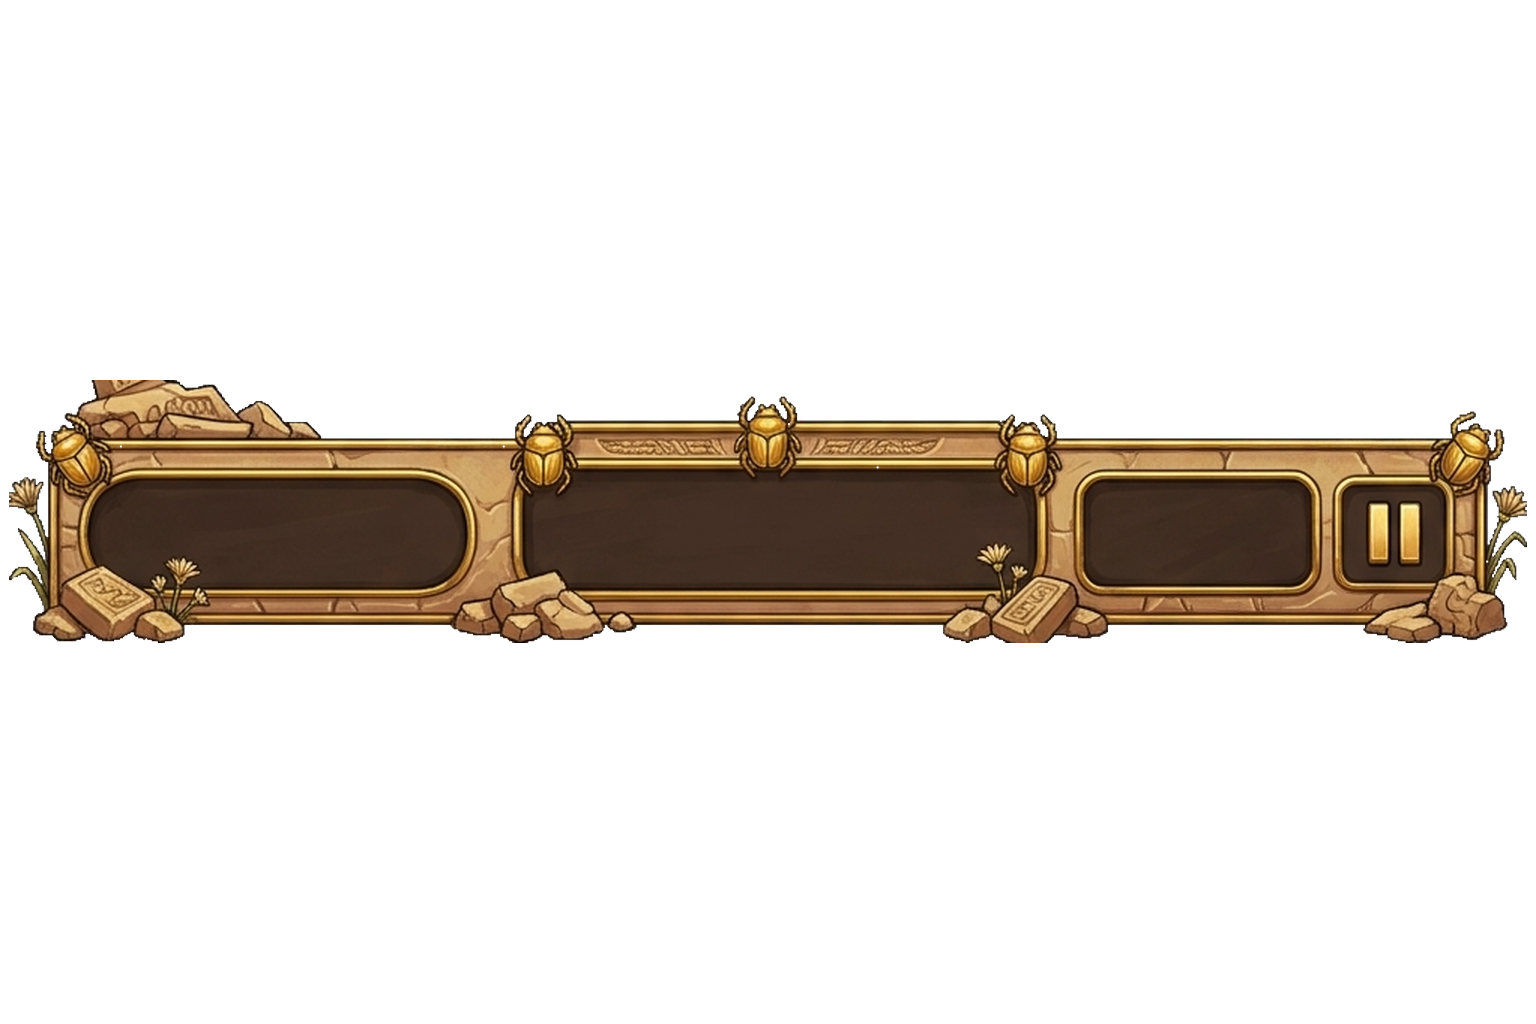
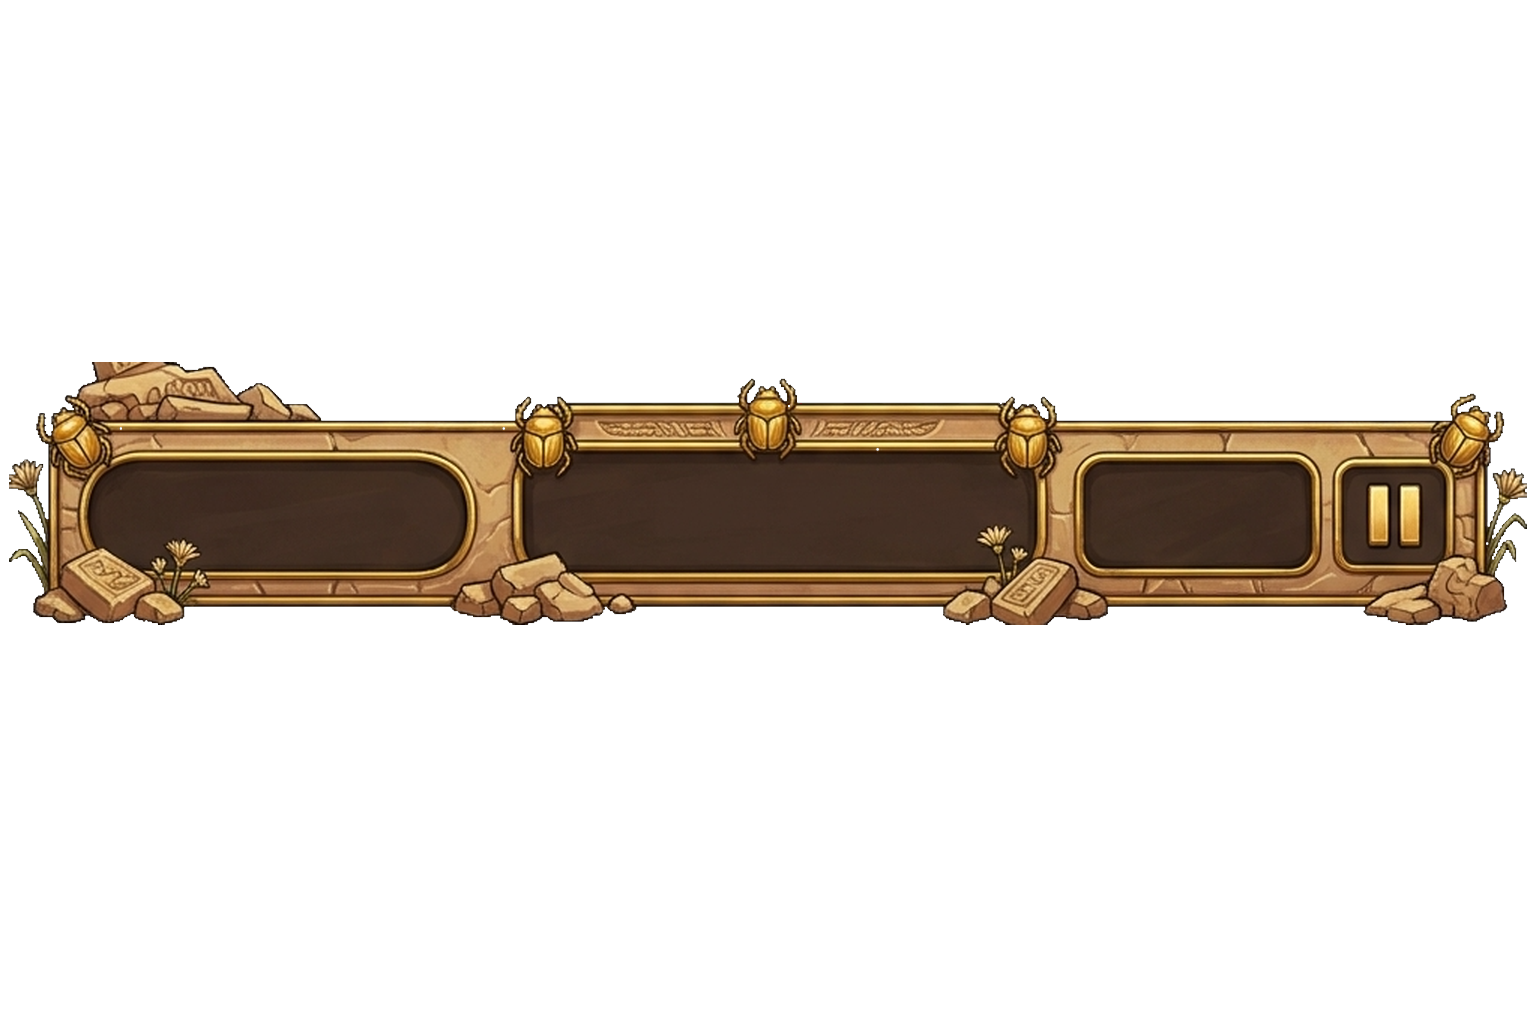
RENDER THEO TRỤC Y

Changed region(s): [[0.0, 0.3438, 1.0, 0.625]]

diff --git a/src/core/CGAME.cpp b/src/core/CGAME.cpp
@@ -2,6 +2,7 @@
 #include "LevelConfig.h"
 #include "HighScore.h"
 #include <cstdio>
+#include <algorithm>
 #include <cmath>
 
 const float SPAWN_X = Win_W / 2.f - Player_W / 2.f;
@@ -888,13 +889,25 @@ void CGAME::render() {
 
     mWindow.draw(mBgSprite);
 
-    for (auto* obs : mObstacles) {
-        obs->Draw(mWindow);
-    }
+    //Sort theo y
+    std::sort(mAnimals.begin(), mAnimals.end(),
+    [](CANIMAL* a, CANIMAL* b) {
+        return a->getPosition().y < b->getPosition().y;
+    });
 
     for (auto* ani : mAnimals) {
         ani->Draw(mWindow);
     }
+
+    std::sort(mObstacles.begin(), mObstacles.end(),
+    [](CVEHICLE* a, CVEHICLE* b) {
+        return a->getPosition().y < b->getPosition().y;
+    });
+
+    for (auto* obs : mObstacles) {
+        obs->Draw(mWindow);
+    }
+
 
     if (mTraffic) {
         mTraffic->Draw(mWindow);

diff --git a/src/levels/LevelConfig.cpp b/src/levels/LevelConfig.cpp
@@ -21,8 +21,8 @@ LevelConfig getLevel1()
             {ObstacleType::MAMMOTH, 80.f, 1.f, 80.f, "assets/sprites/lv1_sp/mammoth/MAMUT.png", 2, 620.f},
         },
         {
-            {AnimalType::BIRD, 150.f, 1.f, 50.f, "assets/sprites/lv1_sp/bird/bay.png", 2, 520.f},
-            {AnimalType::BIRD, 200.f, -1.f, 50.f, "assets/sprites/lv1_sp/bird/baytrai.png", 2, 520.f},
+            {AnimalType::BIRD, 280.f, 1.f, 50.f, "assets/sprites/lv1_sp/bird/bay.png", 2, 520.f},
+            {AnimalType::BIRD, 250.f, -1.f, 50.f, "assets/sprites/lv1_sp/bird/baytrai.png", 2, 520.f},
         }};
 }
 

diff --git a/src/animals/CANIMAL.h b/src/animals/CANIMAL.h
@@ -17,5 +17,7 @@ public:
     virtual void update(float dt);
 	virtual bool loadSprite(const std::string& texturePath, float x, float y);
 
+	sf::Vector2f getPosition() const { return mSprite.getPosition(); }
+
     sf::FloatRect getBounds() const { return mSprite.getGlobalBounds(); }
 };